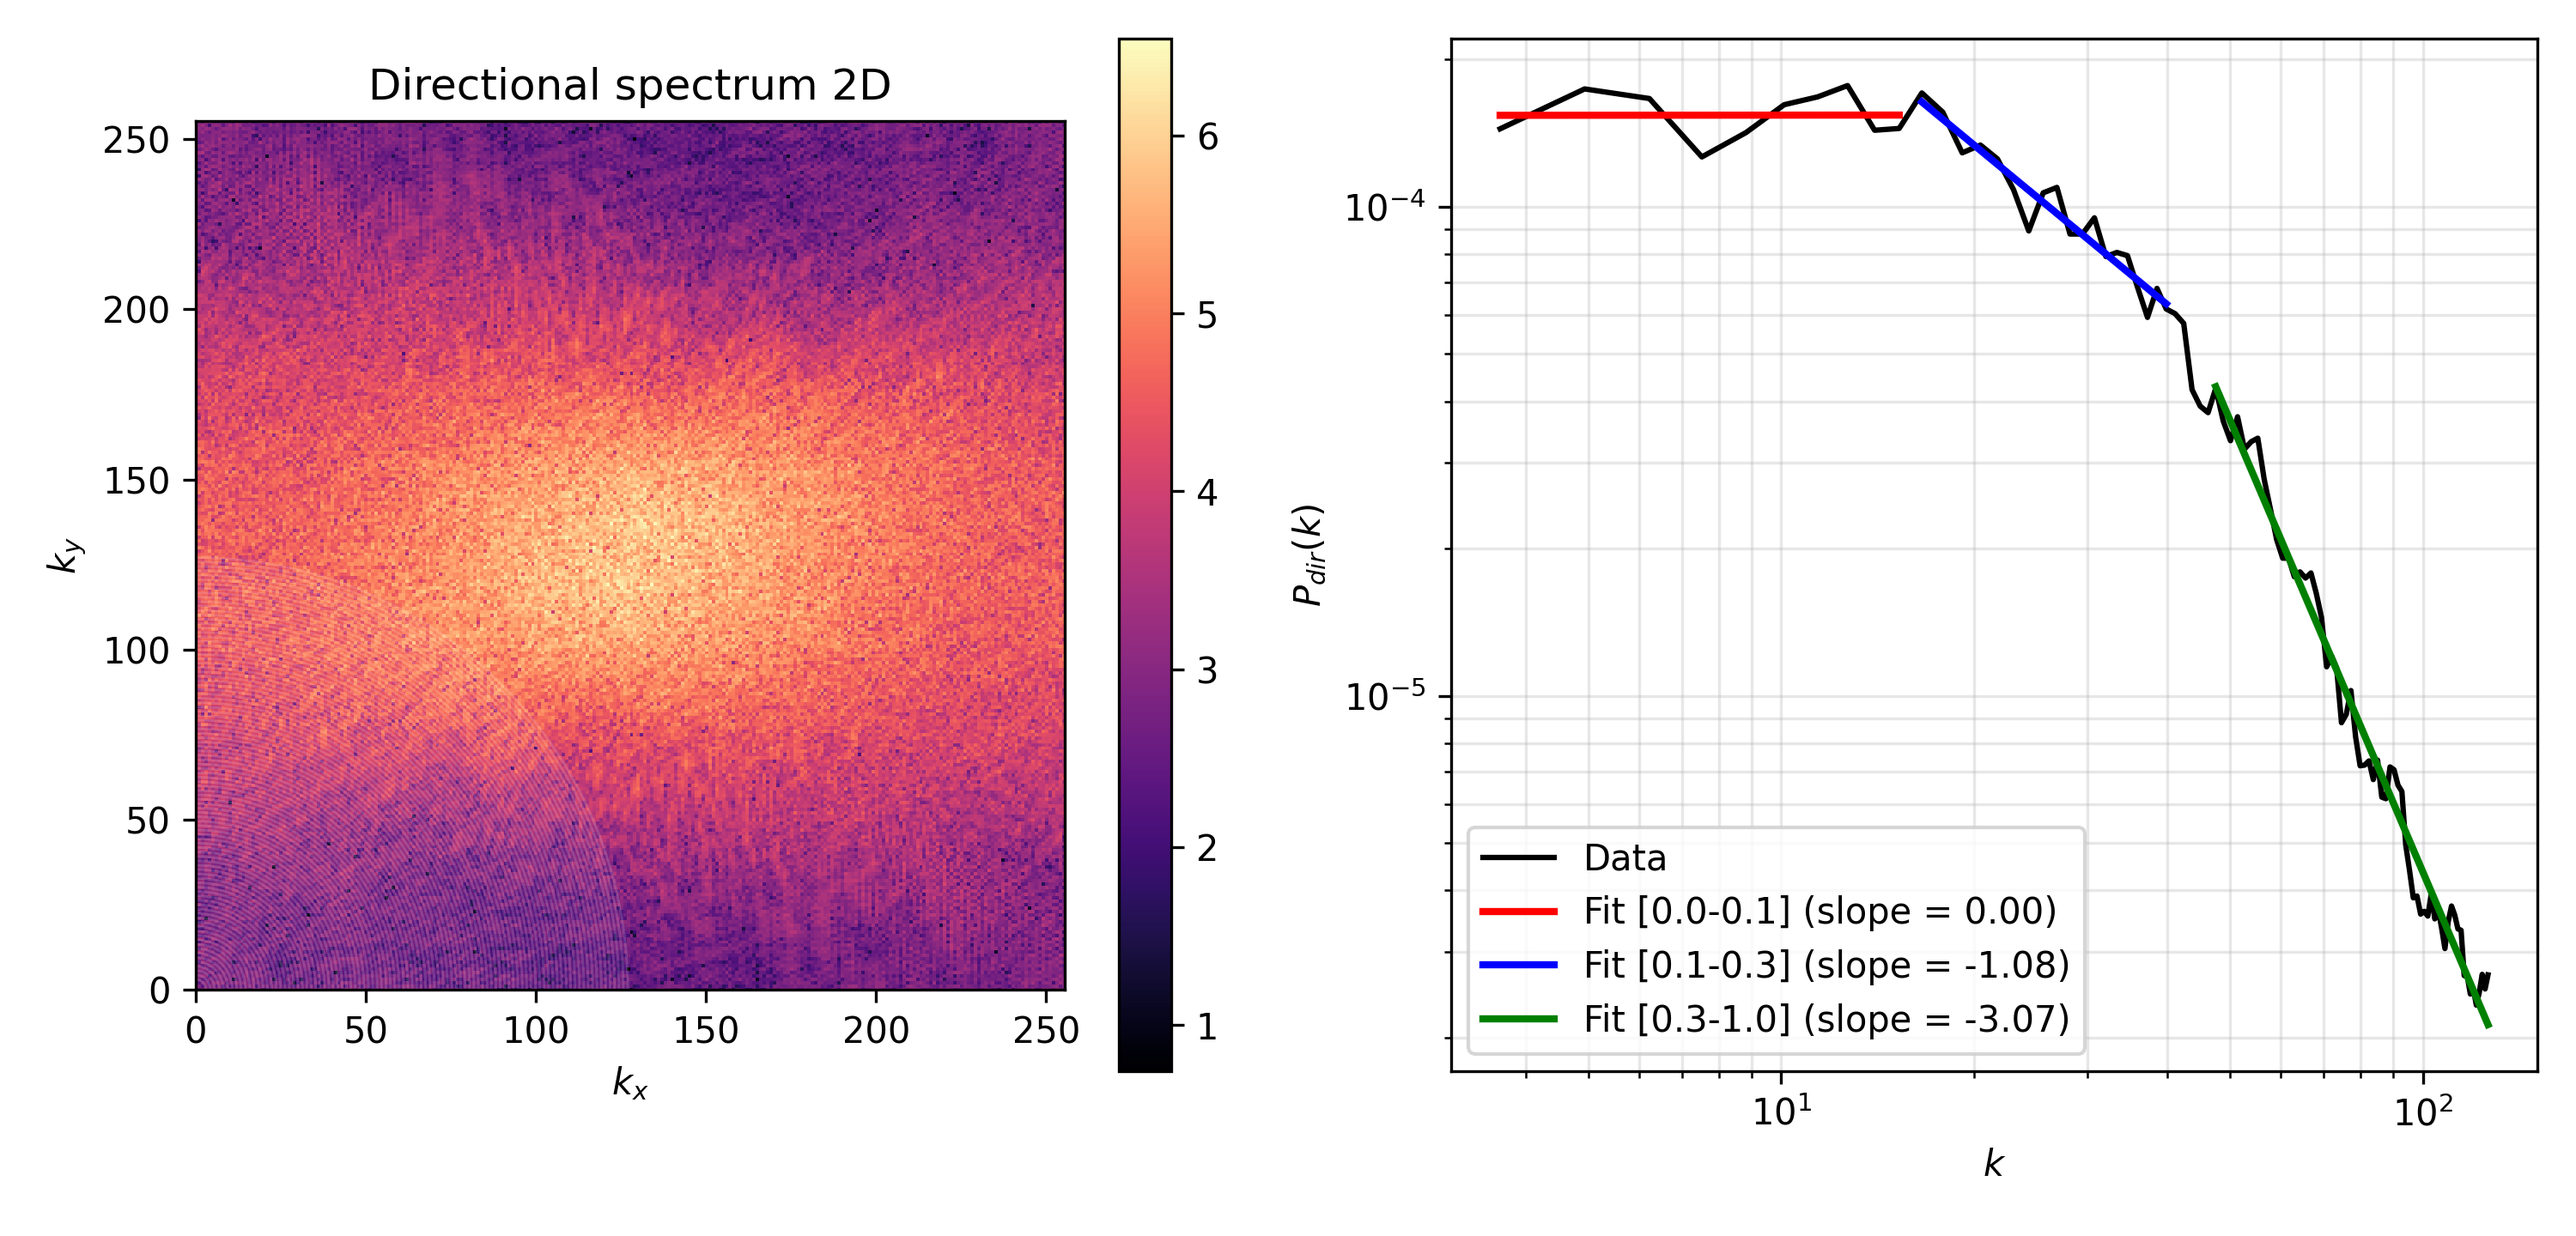
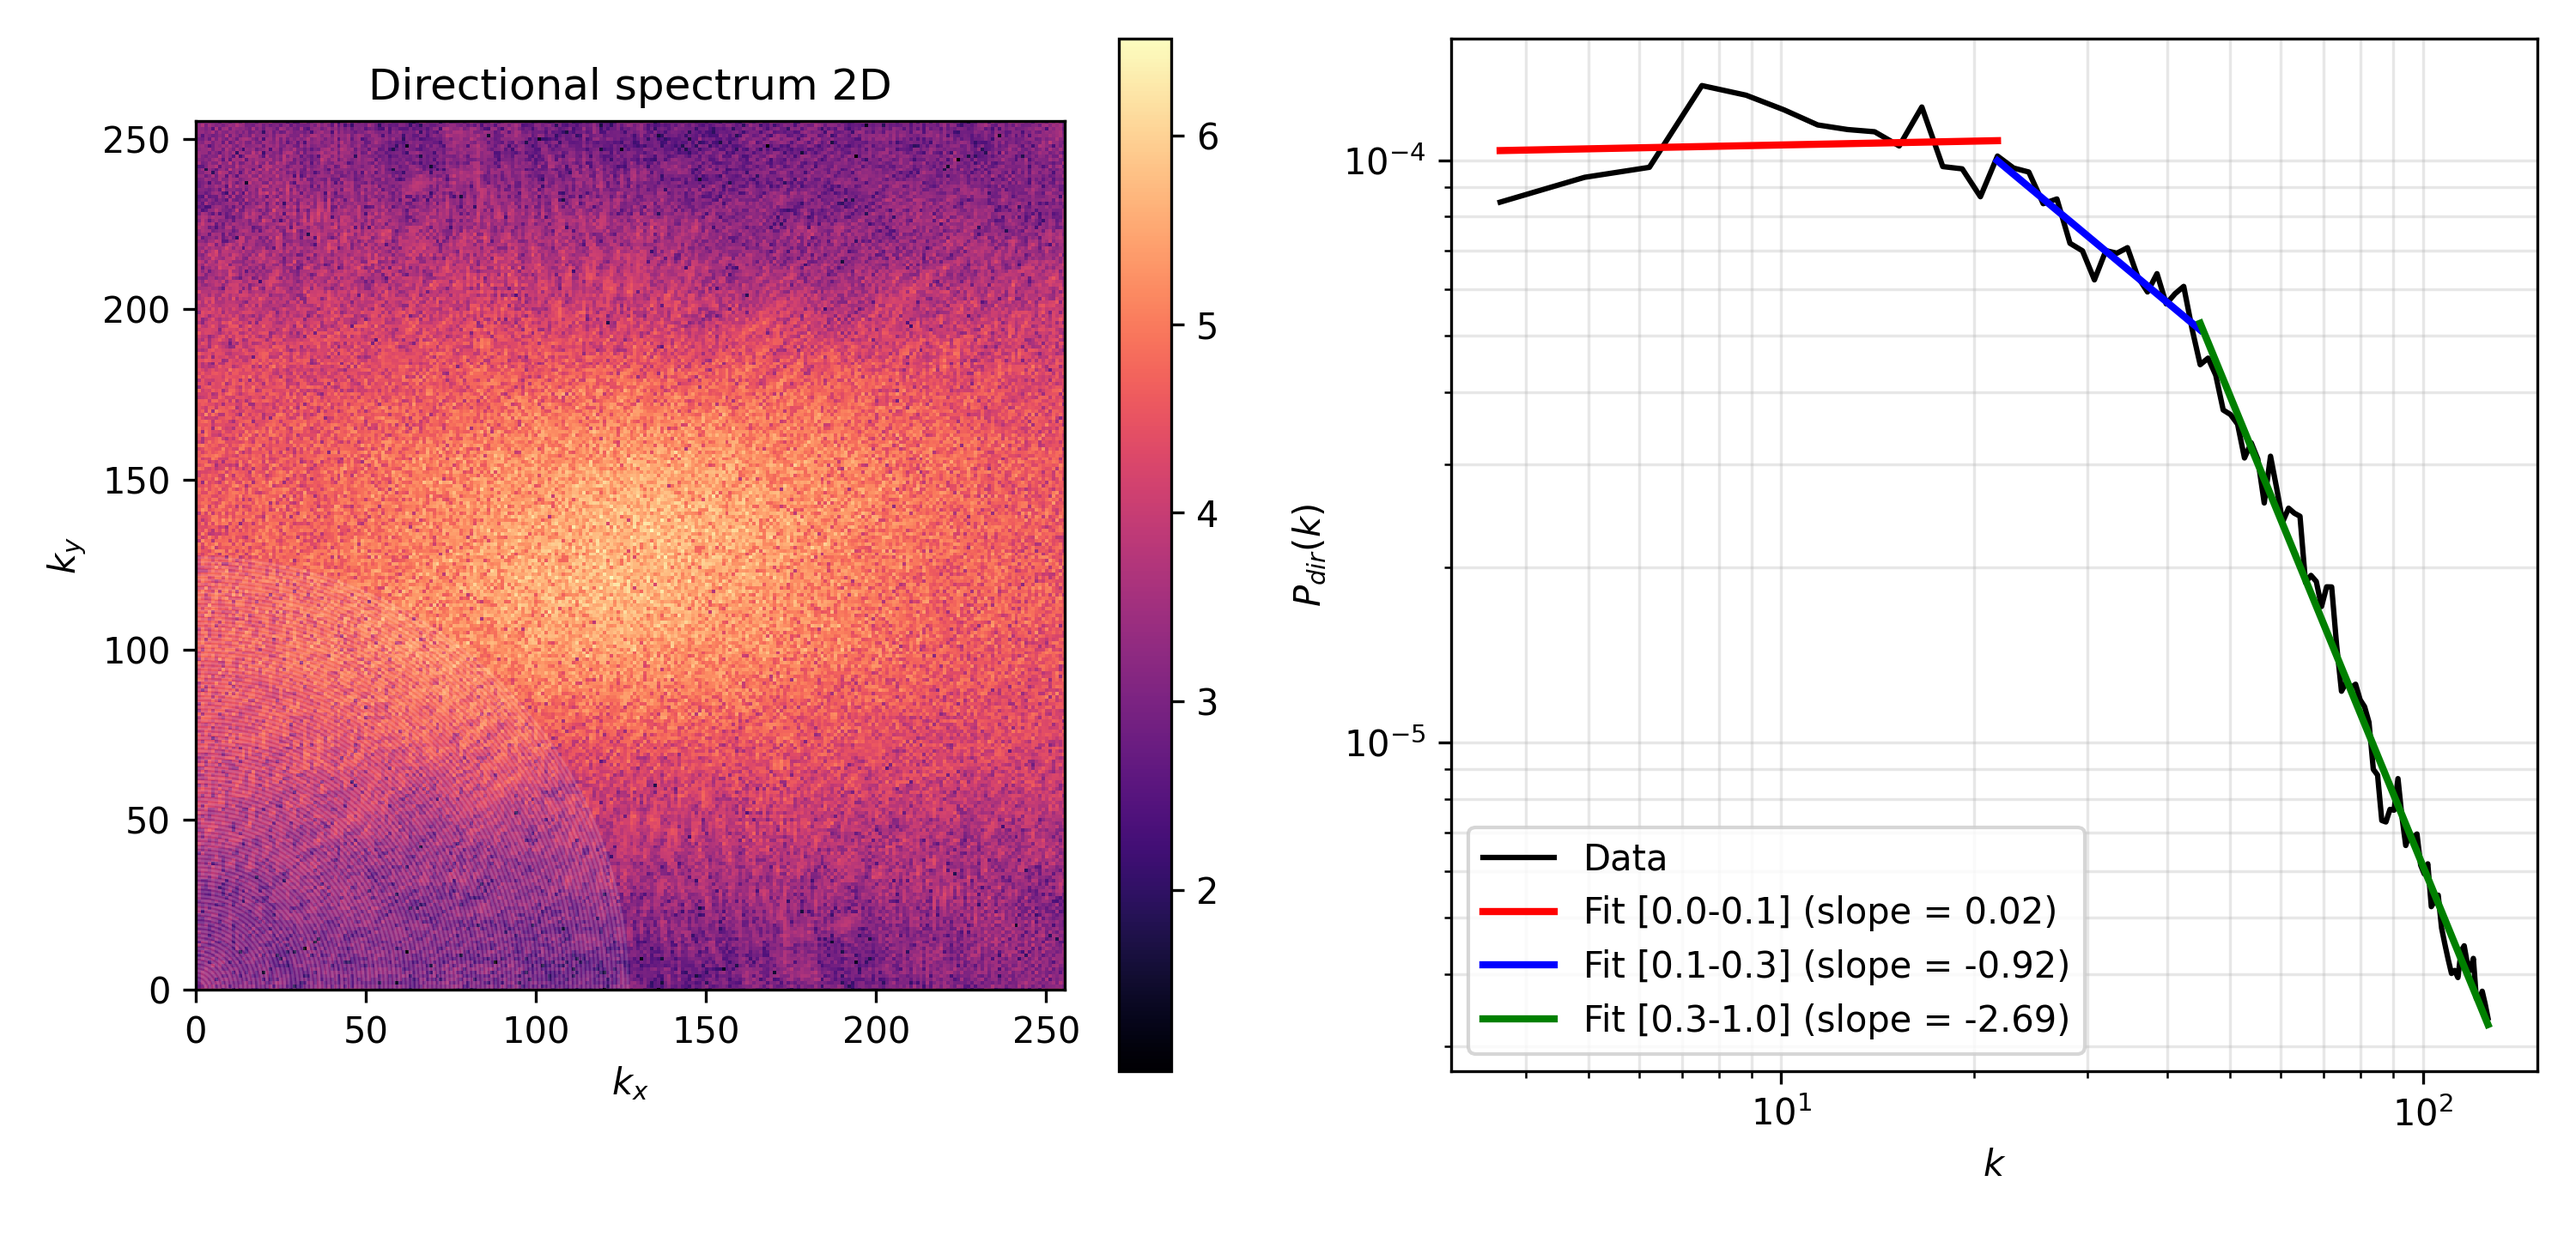
Another fit for lam = 2.4

diff --git a/compare_measures/directional_spectrum/directional_spectrum_single_lambda.py b/compare_measures/directional_spectrum/directional_spectrum_single_lambda.py
@@ -4,7 +4,7 @@ import h5py, matplotlib.pyplot as plt
 h5_path = r"D:\Рабочая папка\GitHub\AstroTurbulence\faradays_angles_stats\lp_structure_tests\ms01ma08.mhd_w.00300.vtk.h5"
 los_axis = 2
 C = 1.0
-lam = 2.2
+lam = 2.4
 emit_frac = (0.15, 1.00)
 screen_frac = (0.00, 0.10)
 ring_bins = 48*2
@@ -166,9 +166,12 @@ ax2.loglog(kc, Pdir, '-', color='black', ms=4, lw=1.5, label='Data')
 
 
 # print(np.sqrt(min(kc)*max(kc))/max(kc))
-plot_fit(ax2, kc, Pdir, 0, 0.1, "red")
-plot_fit(ax2, kc, Pdir, 0.1, 0.3, "blue")
-plot_fit(ax2, kc, Pdir, 0.35, 1.0, "green")
+
+x1=0.15
+x2=0.33
+plot_fit(ax2, kc, Pdir, 0, x1, "red")
+plot_fit(ax2, kc, Pdir, 0.14, 0.34, "blue")
+plot_fit(ax2, kc, Pdir, 0.33, 1.0, "green")
 
 # plot_fit(ax2, kc, Pdir, 0, 0.1, "red")
 # plot_fit(ax2, kc, Pdir, 0.1, 0.3, "blue")
